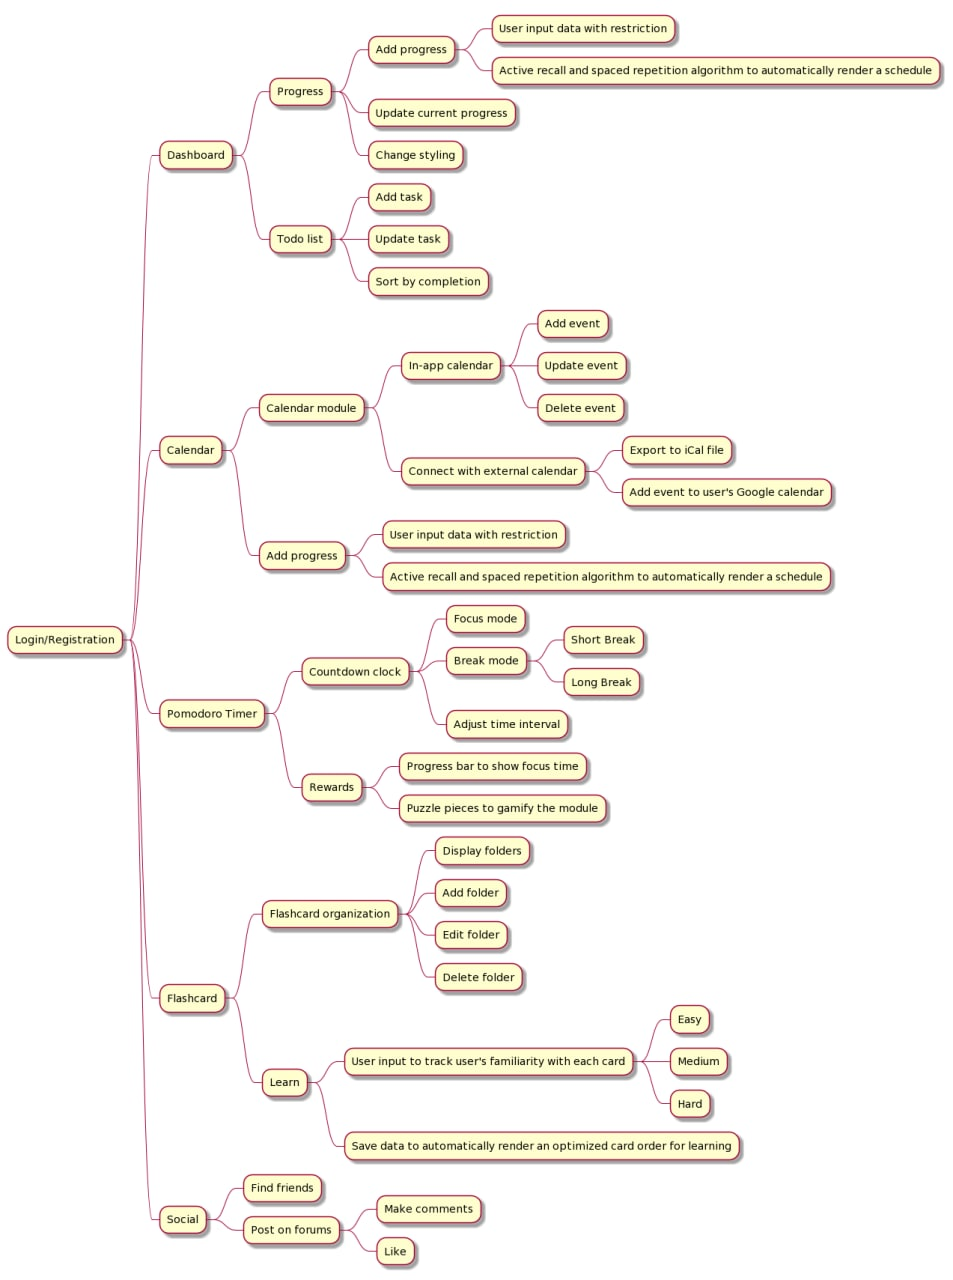
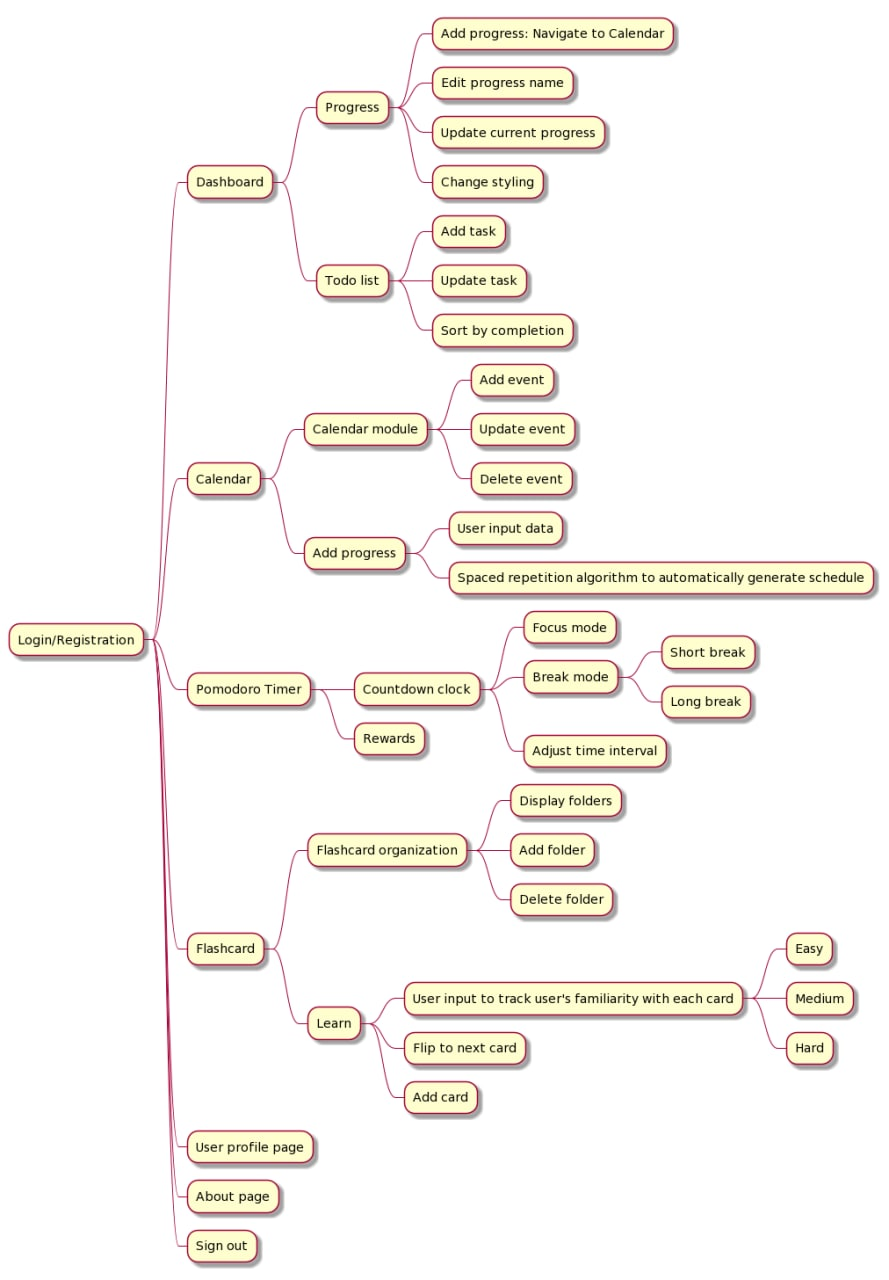
Update documentation

Changed region(s): [[0.0, 0.0, 1.0, 1.0]]

diff --git a/docs/Documentation.md b/docs/Documentation.md
@@ -35,10 +35,10 @@
   &nbsp;&nbsp;&nbsp;&nbsp;14.1.2 [Model Testing](#1412-model-testing)\
   &nbsp;&nbsp;&nbsp;&nbsp;14.1.3 [Running Tests](#1413-running-tests)\
   14.4 [Manual Testing](#142-manual-testing)
-
-  Response to Milestone Evaluations 
-
-15. [Software Security Measures](#16-software-security-measures)\
+15. [Response to Milestone Evaluations](#15-response-to-milestone-evaluations)
+  15.1 [Response to Milestone 1 Evaluations](#151-response-to-milestone-1-evaluations)\
+  15.2 [Response to Milestone 2 Evaluations](#152-response-to-milestone-2-evaluations)
+16. [Software Security Measures](#16-software-security-measures)\
   16.1 [CSRF Token](#161-csrf-token)\
   16.2 [Password Hashing](#162-password-hashing)
 17. [Software Design Patterns and Principles](#17-software-design-patterns-and-principles)\
@@ -61,7 +61,7 @@
 
 Username: test
 
-Password: testingexamplepassword
+Password: testpassword
 
 # 3. Videos
 
@@ -69,7 +69,7 @@ Password: testingexamplepassword
 [![Introduction Video](img/intro_thumbnail.png)](https://youtu.be/ZSS92-gmpTY){:target="_blank"}
 
 ## 3.2 Demo Video
-[![Demo Video](img/demo_thumbnail.png)](https://youtu.be/QgBkij0k48A){:target="_blank"}
+[![Demo Video](img/demo_thumbnail.png)](https://youtu.be/Q8iYmre0xEg){:target="_blank"}
 
 
 # 4. Proposed Level of Achievement
@@ -434,10 +434,6 @@ Unauthorized users can only access the Authentication and Registration system. S
 ## 13.3 Milestone 3: Extension
 
 
-
-
-
-
 ### 13.3.1 Dashboard
 
 #### 13.3.1.1 Progress tracking
@@ -462,14 +458,13 @@ Unauthorized users can only access the Authentication and Registration system. S
 
 #### Description
 
-<!-- * Users are able to have more options to customize their task: they can add a task tag (school, work, networking,...) and specify the level of urgency. The tags and level of urgency will be displayed beside the task title. Users will benefit from this feature in the sense that they will know which task needs finishing first and not get overwhelmed.
-* Connect client-side and server-side data: currently, users are able to interact with the todo list, but data will be refreshed after each session. By the end of milestone 3, the to-do list will be bind to the user with the one-to-many relationship. -->
+* Connect client-side and server-side data: at milestone 2, users were able to interact with the todo list, but data was refreshed after each session. Now, the to-do list is bind to the user with the one-to-many relationship.
+* Although data is saved in the database, the application does not need to reload every time users interact with the todolist.
 
 #### Implementation
 
-* Expand the current `todolist` object (add tag and the level of urgency attributes).
-* Write a Django model that has the same attribute as the `todolist` object. The server-side data will be updated by calling a Django view function asynchronously (Ajax) using Vue.
-
+* Data are saved in the `Task` Django model with `id`, `label`, `done`, and `user` (one-to-many relationship).
+* The server-side data is updated by calling a Django view function asynchronously (Ajax) using Vue.
 
 ### 13.3.2 Pomodoro Timer
 
@@ -477,56 +472,29 @@ Unauthorized users can only access the Authentication and Registration system. S
 
 #### Description
 
-* Current approach to focus cycle tracking: Currently, when the current mode is Pomodoro (focus) mode, if users stop the countdown clock, they might adjust the focus time using `+` and `-` buttons then resume. As a result, users can cheat to get their rewards, which might counteract the aim of the reward scheme.
+* Previous approach to focus cycle tracking: When the current mode is Pomodoro (focus) mode, if users stop the countdown clock, they might adjust the focus time using `+` and `-` buttons then resume. As a result, users can cheat to get their rewards, which might counteract the aim of the reward scheme.
 * New way of cycle tracking: When users top the countdown clock in Pomodoro mode, they will have 2 options: `resume` and `restart`. Additionally, when in Pomodoro mode, users are unable to adjust the time using `+` and `-` buttons. If users choose to restart, they can start a new cycle, adjust the time to their liking, but the old cycle will be completely lost. This approach will motivate users to complete their current cycle and ban them from cheating.
 * Overview/tracking cycle count: A comprehensive overview of the usage of the Pomodoro timer will be displayed to the user, which will give the user a broad view of their work/study.
 
 #### Implementation
 
 * Add new `resume` and `restart` buttons and bind their condition of appearance using VueJS.
-* Write a Django model `Cycle` that has the following attributes `cycleCount`, `duration`, and `dateTime` to store the focus time into the database.
-
-#### 13.3.2.2 Reward
-
-#### Description
-
-<!-- * There will be a reward for each week, which is a random hidden picture. The picture will be revealed piece by piece based on the total focus time of the user.
-* Users will also be able to see their progress in detail with a visualized dynamic progress bar.
-* This will gamify the pomodoro module and motivate users to focus more.
-
-![New Pomodoro](img/new_pomodoro.png) -->
-
-#### Implementation
-
-<!-- * The total focus time of the user will be stored in the database. The picture with the exact hidden pieces will be rendered based on that focus time.
-* The total time focus bar is a Vuejs component bind with asynchronous data fetch from Django backend. -->
+* Number of Pomodoro cycles completed is stored in the `Pomodoro` model.
 
 ### 13.3.3 Calendar
 
-#### 13.3.3.1 Calendar Module
-
-#### Description
-
-* Users can connect their calendar with Google Calendar, they can export their existing schedule or sync ActiveNUS calendar and Google Calendar.
-* Users can also export their schedule to `.ics` file so that they can import it to many other different calendar applications.
-
-#### Implementation
-
-* Call API from Google Calendar API to sync and read data from Google Calendar
-* We are considering using `django-ical` or `ics` package to export `.ics` files.
-
-#### 13.3.3.2 Recommendation System
+#### 13.3.3.1 Recommendation System
 
 #### Description
 
 * Within the calendar module, users have a choice to create a new progress, which will be reflected on the dashboard page. 
-* Users can choose to or not to authorize ActiveNUS to automatically render a schedule, which will be based on the expected workload and expected number of iterations using active recall and spaced repetition logic
+* Users can choose to or not to authorize ActiveNUS to automatically render a schedule, which will be based on the expected workload and expected number of iterations using active recall and spaced repetition logic.
 
 ![New Calendar](img/new_calendar.png)
 
 #### Implementation
 
-The algorithm to generate schedules automatically will be written based on Ebbinghaus’ forgetting curve and review cycle. ActiveNUS will also have conditions to restrict the input data (for example end date must be at least 2 days after the start date, or the number of iterations must fall into some range based on the expected workload input,...). Based on the input data, ActiveNUS will generate calendar events.
+The algorithm to generate schedules automatically is written based on Ebbinghaus’ forgetting curve and review cycle. Based on the input data, ActiveNUS will generate calendar events.
 
 ![Space Repetition](img/space_repetition.png)
 
@@ -538,15 +506,15 @@ The algorithm to generate schedules automatically will be written based on Ebbin
 
 #### Description
 
-* Organizing flashcards by folder. Users will be able to see the number of items in each folder to have a broader overview of the subject. They can also add a new folder with the description on this page.
-* For each folder, users have the option to edit and learn the topic
+* Organizing flashcards by folder. Users are able to see the number of items in each folder to have a broader overview of the subject. They can also add a new folder with the description on this page.
+* For each folder, users have the option to edit and learn the topic.
 
 ![New Flashcard](img/new_flashcard.png)
 
 #### Implementation
 
 * Create a new page to display folders.
-* Each folder will have a specific view page with a parameter which is the `id` of the folder and will be handled by `django.urls`.
+* Each folder has a specific view page with a parameter which is the `id` of the folder and is handled by `django.urls`.
 
 #### 13.3.4.2 Algorithm to Optimize Flashcard Order
 
@@ -570,10 +538,6 @@ number_of_attempts = number_of_attempts + 1
 With `n` equals `1`, `2`, or `5` if the user clicks on `Hard`, `Medium`, or `Easy`, respectively.
 
 The items in a folder are sorted by the score and displayed to the user in ascending order of score.
-
-
-
-
 
 
 
@@ -746,6 +710,34 @@ We have embeded Google Analytics to ActiveNUS and collect some data. However, fu
 ![Analytics](img/analytics.png)
 
 After getting data from users in phase 2 of milestone 3, we have made some modifications to meet users' need.
+
+
+# 15. Response to Milestone Evaluations
+
+## 15.1 Response to Milestone 1 Evaluations
+
+**Feedback**: About Readme: It is well-written. Great work! However, for the "Software Design Patterns and Principles" section, by the end of Milestone 2, you should write how your system applies those patterns and principles (i.e. how your code is organized to satisfy the patterns and principles) instead of quoting the theories themselves. You can also explain why you apply them but not the others. By the end of Milestone 2, you should have planned out how you are going to test your system as well.
+
+> We have reviewed and modified our "Software Design Patterns and Principles" section and given some examples of applying the principle in our project. Testing has been implemented as well.
+
+**Feedback**: For buttons such as "Login", it would be even better if the cursor changes to a "hand" icon instead of the normal cursor so that users can now they can actually click it; Login and Signup button should have a hover effect. "Log in instead" text should have a different colour (not black) so that the user knows this text can be clicked.
+
+> The design of the website has been modified after milestone 1 in response to these feedbacks. The buttons have also been adjusted accordingly.
+
+**Feedback**: The component effects are laggy and slows down the load process.
+
+> We use Heroku for deployment. Because its server is based in the US, there might be latency that slows down the loading process. However, we will stick with Heroku since it is compatible with our system. We also made some improvements to solve this problem by restructuring the static files, which will reduce the number of times the web browser has to reload these files.
+
+## 15.2 Response to Milestone 2 Evaluations
+
+**Feedback**: Maybe can embed a tutorial inside . Put the milestone video inside the website?
+
+> Great advice, we have implemented an About page.
+
+**Feedback**: The testing can be done better in the final phase on screens with different sizes as well as testing the system after it's deployed with online host.
+
+> The responsive design testing has been implemented after milestone 2.
+
 
 
 # 16. Software Security Measures
@@ -931,29 +923,8 @@ Since Heroku (deployment platform) is connected to Github, the website will be a
 
 [_<< Back_](README.md)
 
-# Response to Milestone Evaluations
 
-## Response to Milestone 1 Evaluations
 
-**Feedback**: About Readme: It is well-written. Great work! However, for the "Software Design Patterns and Principles" section, by the end of Milestone 2, you should write how your system applies those patterns and principles (i.e. how your code is organized to satisfy the patterns and principles) instead of quoting the theories themselves. You can also explain why you apply them but not the others. By the end of Milestone 2, you should have planned out how you are going to test your system as well.
+&nbsp;
 
-> We have reviewed and modified our "Software Design Patterns and Principles" section and given some examples of applying the principle in our project. Testing has been implemented as well.
-
-**Feedback**: For buttons such as "Login", it would be even better if the cursor changes to a "hand" icon instead of the normal cursor so that users can now they can actually click it; Login and Signup button should have a hover effect. "Log in instead" text should have a different colour (not black) so that the user knows this text can be clicked.
-
-> The design of the website has been modified after milestone 1 in response to these feedbacks. The buttons have also been adjusted accordingly.
-
-**Feedback**: The component effects are laggy and slows down the load process.
-
-> We use Heroku for deployment. Because its server is based in the US, there might be latency that slows down the loading process. However, we will stick with Heroku since it is compatible with our system. We also made some improvements to solve this problem by restructuring the static files, which will reduce the number of times the web browser has to reload these files.
-
-## Response to Milestone 2 Evaluations
-
-**Feedback**: Maybe can embed a tutorial inside . Put the milestone video inside the website?
-
-> Great advice, we have implemented an About page.
-
-**Feedback**: The testing can be done better in the final phase on screens with different sizes as well as testing the system after it's deployed with online host.
-
-> The responsive design testing has been implemented after milestone 2.
-
+[_<< Back_](README.md)

diff --git a/README.md b/README.md
@@ -8,7 +8,9 @@ This repo contains our source code for ActiveNUS - a web-based application for t
 For more details, please refer to our [documentation](https://nvbinh15.github.io/ActiveNUS/).
 
 ## Deployment
-ActiveNUS is deployed on Heroku platform. You can use our product at [activenus.herokuapp.com](https://activenus.herokuapp.com/)
+ActiveNUS is deployed on Heroku platform and works well on most web browsers and devices. You can use our product at [activenus.herokuapp.com](https://activenus.herokuapp.com/). You should use desktop/laptop for the best experience.
+
+If you are using Safari, please update to the latest version.
 
 ## Set Up Instruction
 

diff --git a/docs/AboutUs.md b/docs/AboutUs.md
@@ -5,3 +5,8 @@
 |--------|:-------:|:-------:|
 | Nguyen Van Binh | [nvbinh15](https://github.com/nvbinh15) | [Portfolio](https://portfolio-nvbinh15.vercel.app/) |
 | Tran Thi Phuong Thao | [thaotran27](https://github.com/thaotran27) | |
+
+
+&nbsp;
+
+[_<< Back_](README.md)
